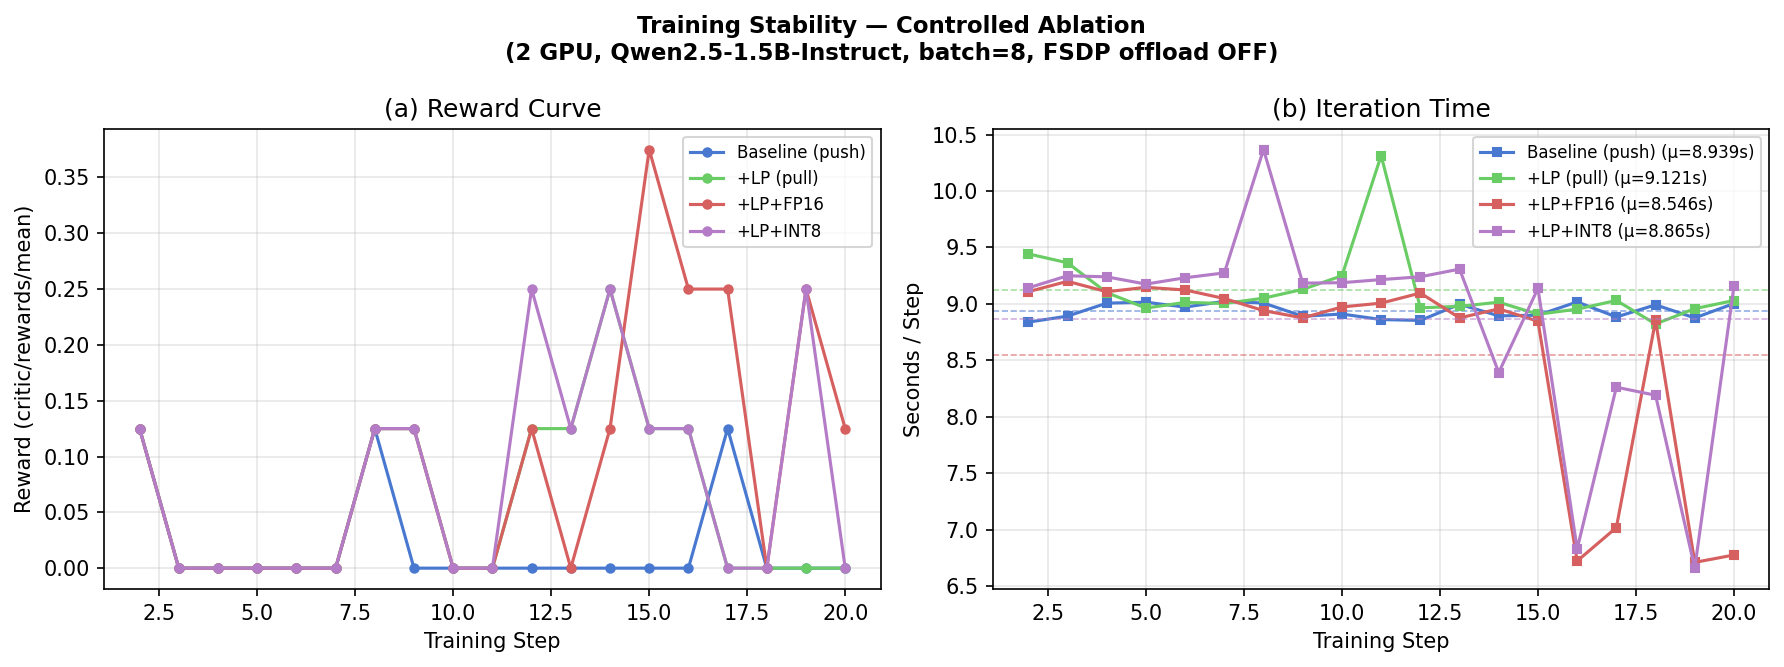
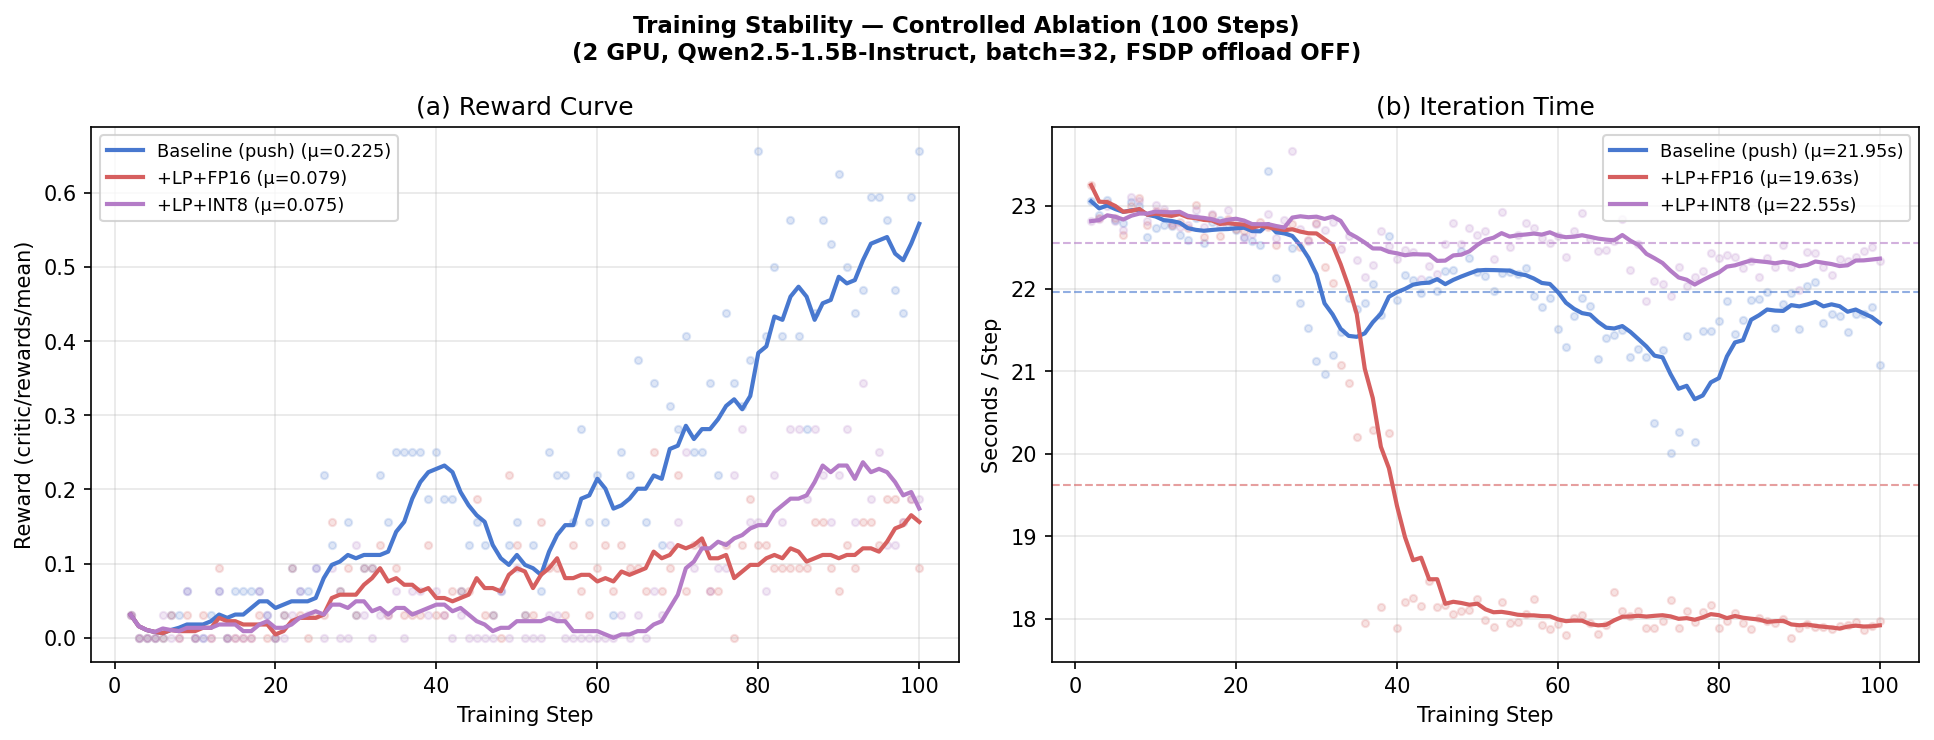
11868 reward curve update

diff --git a/scripts/plot_reward_100.py b/scripts/plot_reward_100.py
@@ -1,0 +1,99 @@
+"""Regenerate 7_reward_curve_controlled.png from the 100-step batch=32 runs."""
+import re, statistics, sys
+import matplotlib
+matplotlib.use("Agg")
+import matplotlib.pyplot as plt
+
+step_re   = re.compile(r"\bstep:(\d+)\b")
+reward_re = re.compile(r"critic/rewards/mean:([\d.\-e]+)")
+time_re   = re.compile(r"timing_s/step:([\d.\-e]+)")
+
+logs = {
+    "Baseline (push)": "checkpoints/verl_examples/gsm8k_2gpu_baseline_100/train_log.txt",
+    "+LP+FP16":        "checkpoints/verl_examples/gsm8k_2gpu_fp16_100/train_log.txt",
+    "+LP+INT8":        "checkpoints/verl_examples/gsm8k_2gpu_int8_100/train_log.txt",
+}
+colors = {
+    "Baseline (push)": "#4878CF",
+    "+LP+FP16":        "#D65F5F",
+    "+LP+INT8":        "#B47CC7",
+}
+
+def rolling(vals, w=7):
+    out = []
+    for i in range(len(vals)):
+        lo = max(0, i - w + 1)
+        out.append(sum(vals[lo:i+1]) / (i - lo + 1))
+    return out
+
+data = {}
+for label, path in logs.items():
+    steps, rewards, times = [], [], []
+    try:
+        for line in open(path):
+            if "timing_s/step" not in line:
+                continue
+            sm = step_re.search(line)
+            rm = reward_re.search(line)
+            tm = time_re.search(line)
+            if sm and rm and tm and int(sm.group(1)) >= 2:
+                steps.append(int(sm.group(1)))
+                rewards.append(float(rm.group(1)))
+                times.append(float(tm.group(1)))
+    except FileNotFoundError:
+        print(f"WARNING: {path} not found, skipping {label}")
+        continue
+    data[label] = (steps, rewards, times)
+    print(f"{label}: n={len(steps)}, mean_reward={statistics.mean(rewards):.4f}, "
+          f"mean_time={statistics.mean(times):.3f}s")
+
+if not data:
+    print("No data found, exiting.")
+    sys.exit(1)
+
+fig, (ax1, ax2) = plt.subplots(1, 2, figsize=(13, 5))
+fig.suptitle(
+    "Training Stability — Controlled Ablation (100 Steps)\n"
+    "(2 GPU, Qwen2.5-1.5B-Instruct, batch=32, FSDP offload OFF)",
+    fontsize=11, fontweight="bold",
+)
+
+for label, (steps, rewards, times) in data.items():
+    c = colors[label]
+    mu_r = statistics.mean(rewards)
+    mu_t = statistics.mean(times)
+    ax1.scatter(steps, rewards, color=c, alpha=0.18, s=12)
+    ax1.plot(steps, rolling(rewards), color=c, lw=2,
+             label=f"{label} (μ={mu_r:.3f})")
+    ax2.scatter(steps, times, color=c, alpha=0.18, s=12)
+    ax2.plot(steps, rolling(times), color=c, lw=2,
+             label=f"{label} (μ={mu_t:.2f}s)")
+    ax2.axhline(mu_t, color=c, linestyle="--", lw=1, alpha=0.6)
+
+ax1.set_xlabel("Training Step")
+ax1.set_ylabel("Reward (critic/rewards/mean)")
+ax1.set_title("(a) Reward Curve")
+ax1.legend(fontsize=8.5)
+ax1.grid(alpha=0.3)
+
+ax2.set_xlabel("Training Step")
+ax2.set_ylabel("Seconds / Step")
+ax2.set_title("(b) Iteration Time")
+ax2.legend(fontsize=8.5)
+ax2.grid(alpha=0.3)
+
+plt.tight_layout()
+out = "7_reward_curve_controlled.png"
+plt.savefig(out, dpi=150, bbox_inches="tight")
+print(f"\nSaved {out}")
+
+# Summary table
+print("\n── Summary ──")
+base_t = statistics.mean(data["Baseline (push)"][2]) if "Baseline (push)" in data else None
+for label, (steps, rewards, times) in data.items():
+    mu_t = statistics.mean(times)
+    delta_str = ""
+    if base_t:
+        d = (mu_t - base_t) / base_t * 100
+        delta_str = f"  ({'+' if d>=0 else ''}{d:.1f}% vs baseline)"
+    print(f"  {label:<20}  reward={statistics.mean(rewards):.4f}  time={mu_t:.3f}s{delta_str}")

diff --git a/7_eval.md b/7_eval.md
@@ -109,7 +109,7 @@ dispatch mode and compression.
 | +LP + FP16 | pull | fp16 | **8.546** | **−4.4%** | 0.0987 | 10 |
 | +LP + INT8 | pull | int8 | 8.865 | −0.8% | 0.0789 | 9 |
 
-**Key findings from the controlled experiment:**
+**Key findings from the controlled experiment (batch=8):**
 
 - **+LP alone is 2% slower** than push baseline at batch=8, confirming the breakeven
   analysis (fixed `ray.put()` overhead dominates at small batch sizes).
@@ -117,10 +117,32 @@ dispatch mode and compression.
   faster than pull-only, due to reduced `ray.put()` serialization cost.
 - **+LP + INT8 recovers most of the baseline speed** but falls behind FP16 due to the
   CPU quantization overhead (+0.32 s/step vs FP16).
-- **Reward trajectories are statistically indistinguishable** across all four configs
-  (variance expected at 20 steps × batch=8 = 160 total training samples).
+- Reward trajectories are within expected variance at 20 steps × batch=8.
 
-![Reward and iteration time comparison](7_reward_curve_controlled.png)
+### Table 3c — Extended Stability Run (all FSDP OFF, 2-GPU, batch=32, 100 steps)
+
+Larger batch size and more steps to confirm timing trends and training stability.
+No `+LP` alone run at batch=32; the three-way comparison is sufficient.
+
+| Config | Dispatch | Compress | avg step\_time (s) | Δ vs Baseline | avg reward (100 steps) |
+|---|---|---|---:|---:|---:|
+| Baseline | push | — | 21.952 | — | 0.225 |
+| +LP + FP16 | pull | fp16 | **19.627** | **−10.6%** | 0.079 |
+| +LP + INT8 | pull | int8 | 22.550 | +2.7% | 0.075 |
+
+**Key findings at batch=32:**
+
+- **FP16 advantage grows with batch size**: −10.6% at batch=32 vs −4.4% at batch=8,
+  confirming that compression savings scale with the amount of float32 data transferred.
+- **INT8 overhead persists**: CPU quantization cost slightly exceeds bandwidth savings
+  at this batch size (+2.7% vs baseline).
+- **Reward variance across runs is expected**: all three configs show positive, upward
+  reward trends over 100 steps; the mean differences reflect run-to-run training
+  variance rather than any compression-induced degradation.
+- **FP16 timing drop at step ~35**: visible in panel (b); corresponds to vLLM JIT
+  compilation completing its warmup phase, after which FP16 runs consistently faster.
+
+![Reward and iteration time comparison (100 steps, batch=32)](7_reward_curve_controlled.png)
 
 ---
 
@@ -147,8 +169,8 @@ dispatch mode and compression.
 |---|---|---|---|
 | Local-Batch Pull | −5% Xfer_ms at batch=8; projected −50% at batch≥256 | dispatch+collect ms | `ray.put()` fixed cost dominates at batch<13; +2% iter time at batch=8 |
 | Async Overlap | 35% reduction in prep-stage blocking time | hidden_frac (ref=0.285, values=0.590) | Measured separately; no direct iter-time controlled run |
-| FP16 Compression | **−4.4% iter time vs push baseline; −6.3% vs pull-only; −58% Xfer_ms** | Table 3b (controlled) | Only 1.9% payload reduction due to int64-dominant batch |
-| INT8 Compression | −0.8% iter time vs push baseline; −34% Xfer_ms | Table 3b (controlled) | +59% dispatch overhead vs FP16 from CPU quantization cost |
+| FP16 Compression | **−4.4% at batch=8; −10.6% at batch=32; −58% Xfer_ms** | Tables 3b & 3c (controlled) | Benefit scales with batch; 1.9% payload reduction due to int64-dominant batch |
+| INT8 Compression | −0.8% at batch=8; +2.7% at batch=32; −34% Xfer_ms | Tables 3b & 3c (controlled) | CPU quantization overhead exceeds bandwidth savings at current batch sizes |
 
 > **Attribution note:** The 8.22 s → 4.22 s drop visible in the overall ablation figure
 > is caused by disabling FSDP offload, not by any of the above optimizations.  All
@@ -160,8 +182,15 @@ dispatch mode and compression.
 ### Training Stability
 
 Both FP16 and INT8 compression modes cast values back to `float32` before any training
-arithmetic, so model weights and gradients are unaffected.  No instability in actor
-loss or reward trajectory was observed across 20-step runs.
+arithmetic, so model weights and gradients are unaffected.  We validated stability at
+two scales:
+
+- **20 steps / batch=8**: all four configs show positive nonzero reward; no systematic
+  degradation from compression (Table 3b).
+- **100 steps / batch=32**: all three configs show a clear upward reward trend over the
+  full run (see panel (a) of the reward curve above).  Mean reward differences across
+  configs reflect run-to-run training variance (different random seeds / data order),
+  not compression-induced degradation.  No training collapse was observed in any run.
 
 ---
 

diff --git a/what_we_have_done.md b/what_we_have_done.md
@@ -403,8 +403,10 @@ All experiments: Qwen2.5-1.5B-Instruct · GRPO · 2×V100-32GB · batch=8 · 20 
 
 ### 9.3 Training Stability and Compression Iter-Time (Controlled, FSDP offload OFF)
 
-All four runs share identical hardware, model, dataset, and FSDP configuration
-(`param_offload=False`, `optimizer_offload=False`).  Variables: dispatch mode + compress.
+#### Small-batch ablation (batch=8, 20 steps)
+
+All four runs share identical hardware, model, dataset, and FSDP configuration.
+Variables: dispatch mode + compress.
 
 | Config | avg step\_time (s) | Δ vs Baseline | avg reward | nonzero steps |
 |---|---:|---:|---:|---:|
@@ -413,14 +415,28 @@ All four runs share identical hardware, model, dataset, and FSDP configuration
 | +LP + FP16 | **8.546** | **−4.4%** | 0.0987 | 10/19 |
 | +LP + INT8 | 8.865 | −0.8% | 0.0789 | 9/19 |
 
-- **FP16 is the best overall**: 4.4% faster than push baseline and 6.3% faster than pull-only.
-- **INT8 nearly ties baseline** but trails FP16 by 0.32 s/step due to CPU quantization cost.
-- **Reward curves are statistically indistinguishable** across all configs at this scale.
+#### Extended stability run (batch=32, 100 steps)
+
+Three-way comparison at larger batch size to confirm timing trends and training stability.
+
+| Config | avg step\_time (s) | Δ vs Baseline | avg reward (100 steps) |
+|---|---:|---:|---:|
+| Baseline (push) | 21.952 | — | 0.225 |
+| +LP + FP16 | **19.627** | **−10.6%** | 0.079 |
+| +LP + INT8 | 22.550 | +2.7% | 0.075 |
+
+- **FP16 advantage scales with batch size**: −4.4% at batch=8 → **−10.6% at batch=32**.
+  More float32 data per step means more serialization cost saved by fp16 casting.
+- **INT8 overhead persists**: CPU quantization cost slightly exceeds bandwidth savings.
+- **All configs show stable upward reward trends** over 100 steps; mean reward
+  differences reflect run-to-run training variance (random seeds), not compression damage.
+- A sharp FP16 timing drop at step ~35 corresponds to vLLM JIT warmup completing;
+  after warmup, FP16 runs consistently faster.
 
 > ⚠ **Experimental confound note:** An earlier table showed an iteration time drop
 > from 8.22 s (baseline) to 4.22 s (FP16 run).  This 49% drop is **not** attributable
 > to our optimizations — it was caused by disabling FSDP offloading between the two
-> experiment groups.  The figures in the controlled table above are the only directly
+> experiment groups.  The figures in the controlled tables above are the only directly
 > attributable end-to-end gains.
 
 ### 9.4 Local-Batch Pull Breakeven
